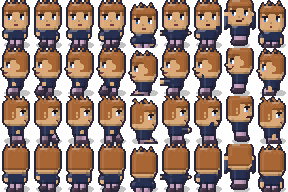
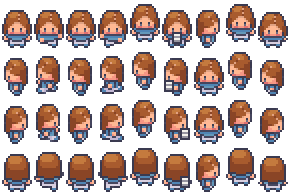
feat(art): students I-L from LimeZu's Character + Portrait Generators
Master's four extra students were still hand-drawn, so a room past eight
desks mixed two art styles. They are now LimeZu cast entries like A-H.
The pack has no kid glasses, so student L's glasses do not carry over.
Cast is now 17 sheets + 16 busts; docs updated to match.

Verified: import clean, suite 2303 assertions, contract 0.63/0.72/0.97 ok,
check_docs 315/315, limezu_chars --check 0 differ.

diff --git a/docs/ART_STYLE_REFERENCE.md b/docs/ART_STYLE_REFERENCE.md
@@ -106,7 +106,7 @@ This is a modest step in the right DIRECTION (more tonal steps than a
 single hard edge) but it is still silhouette-edge-based, not per-surface
 — it does NOT yet implement finding #2 above, the biggest structural
 gap. Applied to: `window_seat`, `low_shelf`, `display_rack` (make_items.py)
-and all 13 characters + 12 portraits (make_art.py). Characters/portraits
+and all 17 characters + 16 portraits (make_art.py). Characters/portraits
 also don't yet have the cool-outline or grain-texture treatment.
 
 **Not yet done — the real next steps, in priority order:**
@@ -235,7 +235,7 @@ forbids redistributing them.
 |---|---|---|
 | `tools/import_limezu.py` | props, fixtures, hats -- one PNG each in `art/` | `tools/limezu_manifest.json` (`props`): a ref like `classroom#6` = the numbered *shadowless* single #6 of that theme, or a `sheet`+`rect` cut, or a `join` |
 | `tools/limezu_room.py` | the 18 `tile_*.png` the room is stamped from | `tools/limezu_room.json` (which floor block, which wall set, which door/window) |
-| `tools/limezu_chars.py` | the 13 character sheets (9x4 cells of 32x48) and their 96x96 HUD busts | `tools/limezu_cast.json` (body/eyes/outfit/hair/accessory ids + colour ramps) |
+| `tools/limezu_chars.py` | the 17 character sheets (9x4 cells of 32x48) and their 96x96 HUD busts | `tools/limezu_cast.json` (body/eyes/outfit/hair/accessory ids + colour ramps) |
 | `tools/limezu_ui.py` | UI pieces that need "their frame, our glyph" (the stuck "?" bubble) | the builders in the file |
 
 * **The generators stand down.** `make_art.hand_edited()` unions in
@@ -312,4 +312,4 @@ pack's licence here when it is added; terms differ pack to pack.
 | limezu "Modern Farm" (`artgen.zip`) | 2026-10-02 | Characters: inspiration only (proportions/poses/architecture mismatch). Props: ~20 direct-use candidates out of 1102 files. Technique findings #1-5 above. |
 | limezu **Modern Interiors** (full, `moderninteriors-win.zip`) | 2026-10-02 | Used directly: 38 shop items, 6 fixtures (desk, chair, teacher's desk, lectern, noticeboard, cabinet) and 2 hats, the room shell, the whole cast (Character Generator, baked), the "?" bubble frame. A themed *Classroom & Library* set of 75 singles, kid bodies/hair/outfits, 29 hair styles x ~7 colours, 33 outfit groups. |
 | limezu **Modern Office Revamped** (`Modern_Office_Revamped_v1.2.zip`) | 2026-10-02 | Used (6 shop items): whiteboard, water cooler, ream of paper, filing unit, rota, sticker board. 339 singles, mostly modular desks and computers. |
-| limezu **Modern UI** (`modernuserinterface-win.zip`) | 2026-10-02 | Used: the Portrait Generator (32x32 head portraits in a 10x3 expression grid) for the 12 HUD busts. **Not yet used:** the Style 1/2 panel frames, gamepad glyphs, animated buttons. |
+| limezu **Modern UI** (`modernuserinterface-win.zip`) | 2026-10-02 | Used: the Portrait Generator (32x32 head portraits in a 10x3 expression grid) for the 16 HUD busts. **Not yet used:** the Style 1/2 panel frames, gamepad glyphs, animated buttons. |

diff --git a/AGENTS.md b/AGENTS.md
@@ -331,7 +331,7 @@ machine for these tools, and only the finished sprites live in `art/`):
 |---|---|
 | `tools/import_limezu.py` | props, fixtures, hats -> `art/*.png`, driven by `tools/limezu_manifest.json`. `--list` shows every owned sprite and its source; `--check` verifies |
 | `tools/limezu_room.py` | the 18 room `tile_*.png`, driven by `tools/limezu_room.json`; `--preview room.png` shows the whole room first |
-| `tools/limezu_chars.py` | the 13 character sheets + HUD busts from the Character/Portrait Generators, driven by `tools/limezu_cast.json`; `--preview`, `--check` |
+| `tools/limezu_chars.py` | the 17 character sheets + HUD busts from the Character/Portrait Generators, driven by `tools/limezu_cast.json`; `--preview`, `--check` |
 | `tools/limezu_ui.py` | UI pieces that need LimeZu's frame and our glyph (`bubble_q`) |
 | `tools/limezu_catalog.py` | browse the packs as labelled contact sheets (`props <theme>`, `kids`, `adults`, `animated`, `ui`, `room` ...) into `shots/catalog/`; the ids are the ones the JSON files take |
 | `tools/shot_all.py` | screenshot every named screen (deterministic: it clears the scratch save per shot) and `compare` two runs side by side -- Windows/Mac/Linux |

diff --git a/CLAUDE.md b/CLAUDE.md
@@ -332,7 +332,7 @@ machine for these tools, and only the finished sprites live in `art/`):
 |---|---|
 | `tools/import_limezu.py` | props, fixtures, hats -> `art/*.png`, driven by `tools/limezu_manifest.json`. `--list` shows every owned sprite and its source; `--check` verifies |
 | `tools/limezu_room.py` | the 18 room `tile_*.png`, driven by `tools/limezu_room.json`; `--preview room.png` shows the whole room first |
-| `tools/limezu_chars.py` | the 13 character sheets + HUD busts from the Character/Portrait Generators, driven by `tools/limezu_cast.json`; `--preview`, `--check` |
+| `tools/limezu_chars.py` | the 17 character sheets + HUD busts from the Character/Portrait Generators, driven by `tools/limezu_cast.json`; `--preview`, `--check` |
 | `tools/limezu_ui.py` | UI pieces that need LimeZu's frame and our glyph (`bubble_q`) |
 | `tools/limezu_catalog.py` | browse the packs as labelled contact sheets (`props <theme>`, `kids`, `adults`, `animated`, `ui`, `room` ...) into `shots/catalog/`; the ids are the ones the JSON files take |
 | `tools/shot_all.py` | screenshot every named screen (deterministic: it clears the scratch save per shot) and `compare` two runs side by side -- Windows/Mac/Linux |

diff --git a/docs/ART_CATALOG.md b/docs/ART_CATALOG.md
@@ -9,7 +9,7 @@ trusting it's still accurate.
 > **Provenance, 2026-10-02.** Most of what this catalog describes as drawn by
 > `make_art.py` / `make_items.py` is now **LimeZu's art**, imported by
 > `tools/import_limezu.py` (props/hats, `limezu_manifest.json`), `limezu_room.py`
-> (the 18 `tile_*`), `limezu_chars.py` (the 13 character sheets and 12 busts,
+> (the 18 `tile_*`), `limezu_chars.py` (the 17 character sheets and 16 busts,
 > `limezu_cast.json`) and `limezu_ui.py` (`bubble_q`). `python tools/import_limezu.py
 > --list` prints every owned sprite and where it came from. The generators below
 > stand down for those names and still draw everything else: **still procedural** --
